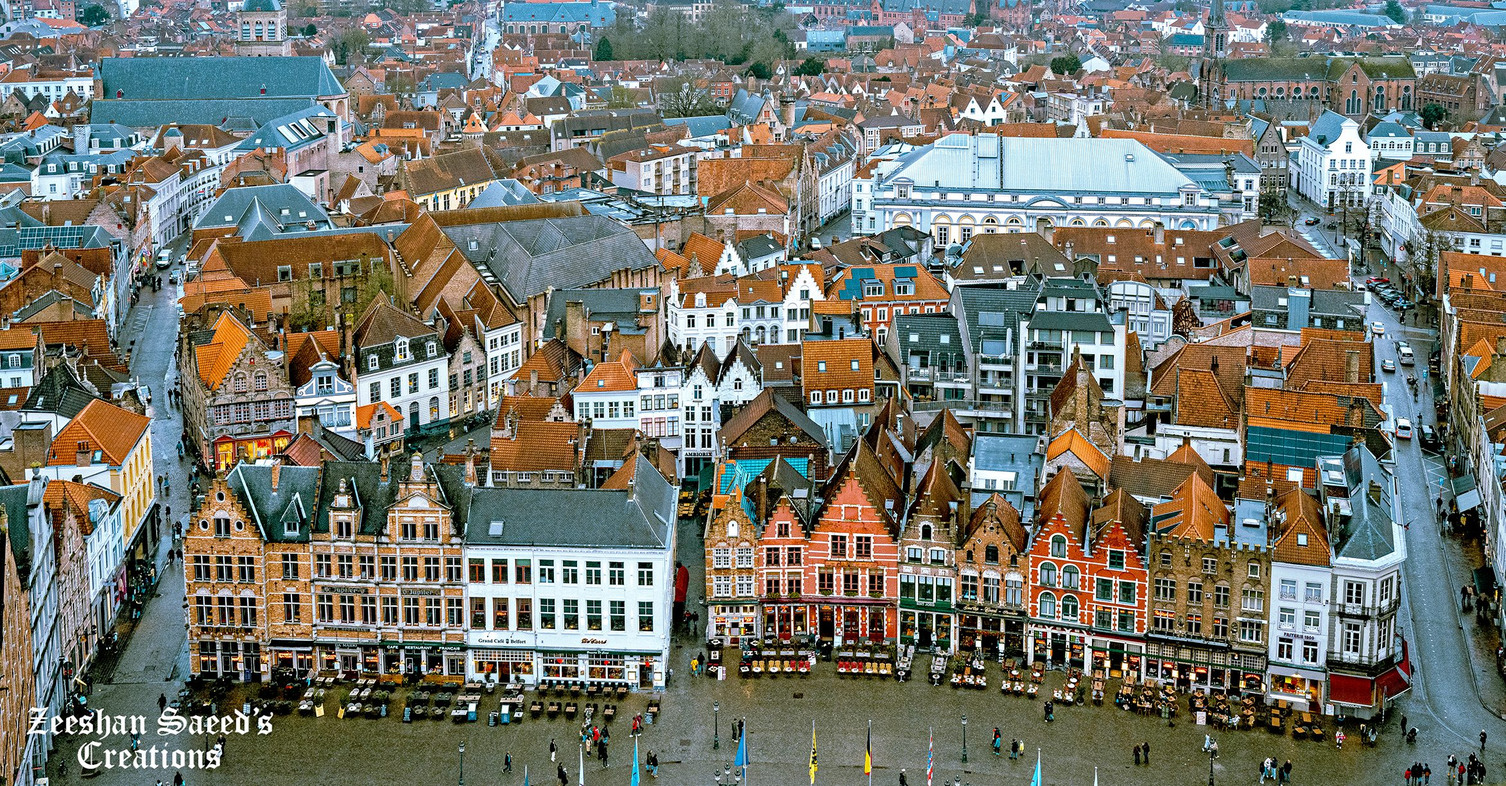
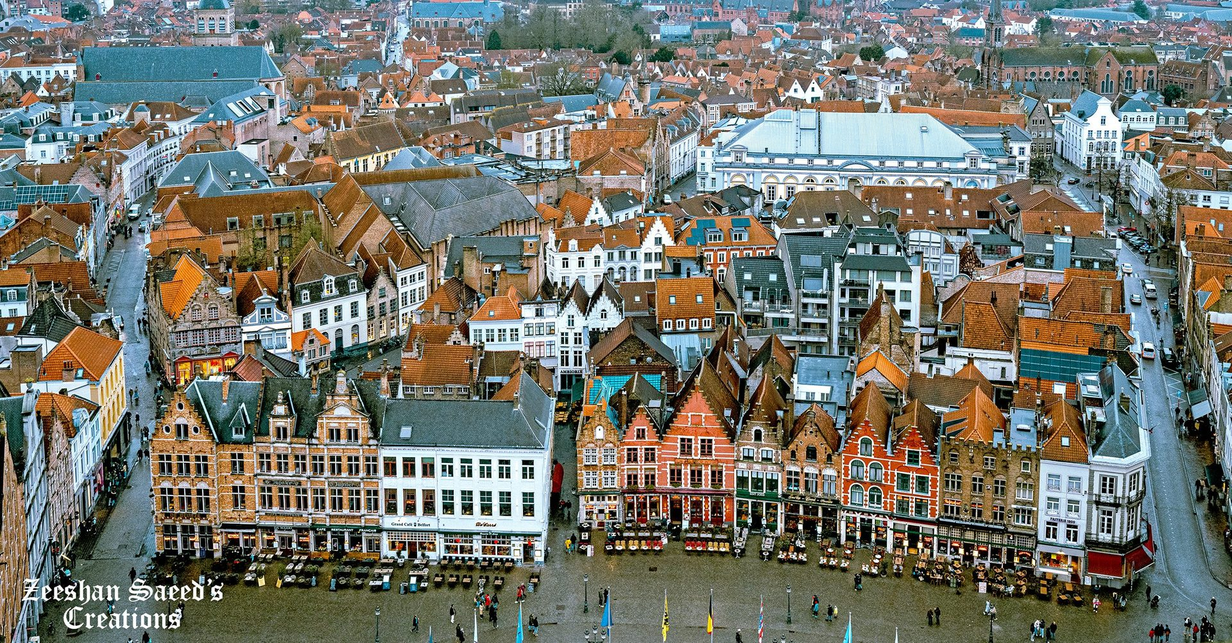
Speed: compress hero images, preload hero on each page

diff --git a/famous-landmark.html b/famous-landmark.html
@@ -16,6 +16,7 @@
   <meta name="twitter:card" content="summary_large_image">
   <link rel="preconnect" href="https://fonts.googleapis.com">
   <link href="https://fonts.googleapis.com/css2?family=Playfair+Display:wght@600;700&family=Lato:wght@400;700&display=swap" rel="stylesheet">
+  <link rel="preload" as="image" href="images/famous-landmark/famous-landmark-hero.jpg" fetchpriority="high">
   <link rel="stylesheet" href="style.css">
   <!-- GoatCounter: private page-view stats (no cookies, invisible to visitors) -->
   <script data-goatcounter="https://zeeshansaeed.goatcounter.com/count" async src="//gc.zgo.at/count.js"></script>

diff --git a/shop.html b/shop.html
@@ -16,6 +16,7 @@
   <meta name="twitter:card" content="summary_large_image">
   <link rel="preconnect" href="https://fonts.googleapis.com">
   <link href="https://fonts.googleapis.com/css2?family=Playfair+Display:wght@600;700&family=Lato:wght@400;700&display=swap" rel="stylesheet">
+  <link rel="preload" as="image" href="images/famous-landmark/famous-landmark-hero.jpg" fetchpriority="high">
   <link rel="stylesheet" href="style.css">
   <!-- GoatCounter: private page-view stats (no cookies, invisible to visitors) -->
   <script data-goatcounter="https://zeeshansaeed.goatcounter.com/count" async src="//gc.zgo.at/count.js"></script>

diff --git a/amsterdam.html b/amsterdam.html
@@ -16,6 +16,7 @@
   <meta name="twitter:card" content="summary_large_image">
   <link rel="preconnect" href="https://fonts.googleapis.com">
   <link href="https://fonts.googleapis.com/css2?family=Playfair+Display:wght@600;700&family=Lato:wght@400;700&display=swap" rel="stylesheet">
+  <link rel="preload" as="image" href="images/travels/amsterdam/amsterdam-hero.jpg" fetchpriority="high">
   <link rel="stylesheet" href="style.css">
   <!-- GoatCounter: private page-view stats (no cookies, invisible to visitors) -->
   <script data-goatcounter="https://zeeshansaeed.goatcounter.com/count" async src="//gc.zgo.at/count.js"></script>

diff --git a/helsinki.html b/helsinki.html
@@ -16,6 +16,7 @@
   <meta name="twitter:card" content="summary_large_image">
   <link rel="preconnect" href="https://fonts.googleapis.com">
   <link href="https://fonts.googleapis.com/css2?family=Playfair+Display:wght@600;700&family=Lato:wght@400;700&display=swap" rel="stylesheet">
+  <link rel="preload" as="image" href="images/travels/helsinki/helsinki-hero.jpg" fetchpriority="high">
   <link rel="stylesheet" href="style.css">
   <!-- GoatCounter: private page-view stats (no cookies, invisible to visitors) -->
   <script data-goatcounter="https://zeeshansaeed.goatcounter.com/count" async src="//gc.zgo.at/count.js"></script>

diff --git a/tallinn.html b/tallinn.html
@@ -16,6 +16,7 @@
   <meta name="twitter:card" content="summary_large_image">
   <link rel="preconnect" href="https://fonts.googleapis.com">
   <link href="https://fonts.googleapis.com/css2?family=Playfair+Display:wght@600;700&family=Lato:wght@400;700&display=swap" rel="stylesheet">
+  <link rel="preload" as="image" href="images/travels/tallinn/tallinn-hero.jpg" fetchpriority="high">
   <link rel="stylesheet" href="style.css">
   <!-- GoatCounter: private page-view stats (no cookies, invisible to visitors) -->
   <script data-goatcounter="https://zeeshansaeed.goatcounter.com/count" async src="//gc.zgo.at/count.js"></script>

diff --git a/bruges.html b/bruges.html
@@ -16,6 +16,7 @@
   <meta name="twitter:card" content="summary_large_image">
   <link rel="preconnect" href="https://fonts.googleapis.com">
   <link href="https://fonts.googleapis.com/css2?family=Playfair+Display:wght@600;700&family=Lato:wght@400;700&display=swap" rel="stylesheet">
+  <link rel="preload" as="image" href="images/travels/bruges/bruges-hero.jpg" fetchpriority="high">
   <link rel="stylesheet" href="style.css">
   <!-- GoatCounter: private page-view stats (no cookies, invisible to visitors) -->
   <script data-goatcounter="https://zeeshansaeed.goatcounter.com/count" async src="//gc.zgo.at/count.js"></script>

diff --git a/prague.html b/prague.html
@@ -16,6 +16,7 @@
   <meta name="twitter:card" content="summary_large_image">
   <link rel="preconnect" href="https://fonts.googleapis.com">
   <link href="https://fonts.googleapis.com/css2?family=Playfair+Display:wght@600;700&family=Lato:wght@400;700&display=swap" rel="stylesheet">
+  <link rel="preload" as="image" href="images/travels/prague/prague-hero.jpg" fetchpriority="high">
   <link rel="stylesheet" href="style.css">
   <!-- GoatCounter: private page-view stats (no cookies, invisible to visitors) -->
   <script data-goatcounter="https://zeeshansaeed.goatcounter.com/count" async src="//gc.zgo.at/count.js"></script>

diff --git a/turkey.html b/turkey.html
@@ -16,6 +16,7 @@
   <meta name="twitter:card" content="summary_large_image">
   <link rel="preconnect" href="https://fonts.googleapis.com">
   <link href="https://fonts.googleapis.com/css2?family=Playfair+Display:wght@600;700&family=Lato:wght@400;700&display=swap" rel="stylesheet">
+  <link rel="preload" as="image" href="images/travels/turkey/turkey-hero.jpg" fetchpriority="high">
   <link rel="stylesheet" href="style.css">
   <!-- GoatCounter: private page-view stats (no cookies, invisible to visitors) -->
   <script data-goatcounter="https://zeeshansaeed.goatcounter.com/count" async src="//gc.zgo.at/count.js"></script>

diff --git a/journal.html b/journal.html
@@ -16,6 +16,7 @@
   <meta name="twitter:card" content="summary_large_image">
   <link rel="preconnect" href="https://fonts.googleapis.com">
   <link href="https://fonts.googleapis.com/css2?family=Playfair+Display:wght@600;700&family=Lato:wght@400;700&display=swap" rel="stylesheet">
+  <link rel="preload" as="image" href="images/travels/turkey/turkey-11.jpg" fetchpriority="high">
   <link rel="stylesheet" href="style.css">
   <!-- GoatCounter: private page-view stats (no cookies, invisible to visitors) -->
   <script data-goatcounter="https://zeeshansaeed.goatcounter.com/count" async src="//gc.zgo.at/count.js"></script>

diff --git a/paris.html b/paris.html
@@ -16,6 +16,7 @@
   <meta name="twitter:card" content="summary_large_image">
   <link rel="preconnect" href="https://fonts.googleapis.com">
   <link href="https://fonts.googleapis.com/css2?family=Playfair+Display:wght@600;700&family=Lato:wght@400;700&display=swap" rel="stylesheet">
+  <link rel="preload" as="image" href="images/travels/paris/paris-hero.jpg" fetchpriority="high">
   <link rel="stylesheet" href="style.css">
   <!-- GoatCounter: private page-view stats (no cookies, invisible to visitors) -->
   <script data-goatcounter="https://zeeshansaeed.goatcounter.com/count" async src="//gc.zgo.at/count.js"></script>

diff --git a/travels.html b/travels.html
@@ -16,6 +16,7 @@
   <meta name="twitter:card" content="summary_large_image">
   <link rel="preconnect" href="https://fonts.googleapis.com">
   <link href="https://fonts.googleapis.com/css2?family=Playfair+Display:wght@600;700&family=Lato:wght@400;700&display=swap" rel="stylesheet">
+  <link rel="preload" as="image" href="images/travels/bruges/bruges-06.jpg" fetchpriority="high">
   <link rel="stylesheet" href="style.css">
   <!-- GoatCounter: private page-view stats (no cookies, invisible to visitors) -->
   <script data-goatcounter="https://zeeshansaeed.goatcounter.com/count" async src="//gc.zgo.at/count.js"></script>

diff --git a/nature.html b/nature.html
@@ -16,6 +16,7 @@
   <meta name="twitter:card" content="summary_large_image">
   <link rel="preconnect" href="https://fonts.googleapis.com">
   <link href="https://fonts.googleapis.com/css2?family=Playfair+Display:wght@600;700&family=Lato:wght@400;700&display=swap" rel="stylesheet">
+  <link rel="preload" as="image" href="images/nature/nature-hero.jpg" fetchpriority="high">
   <link rel="stylesheet" href="style.css">
   <!-- GoatCounter: private page-view stats (no cookies, invisible to visitors) -->
   <script data-goatcounter="https://zeeshansaeed.goatcounter.com/count" async src="//gc.zgo.at/count.js"></script>
